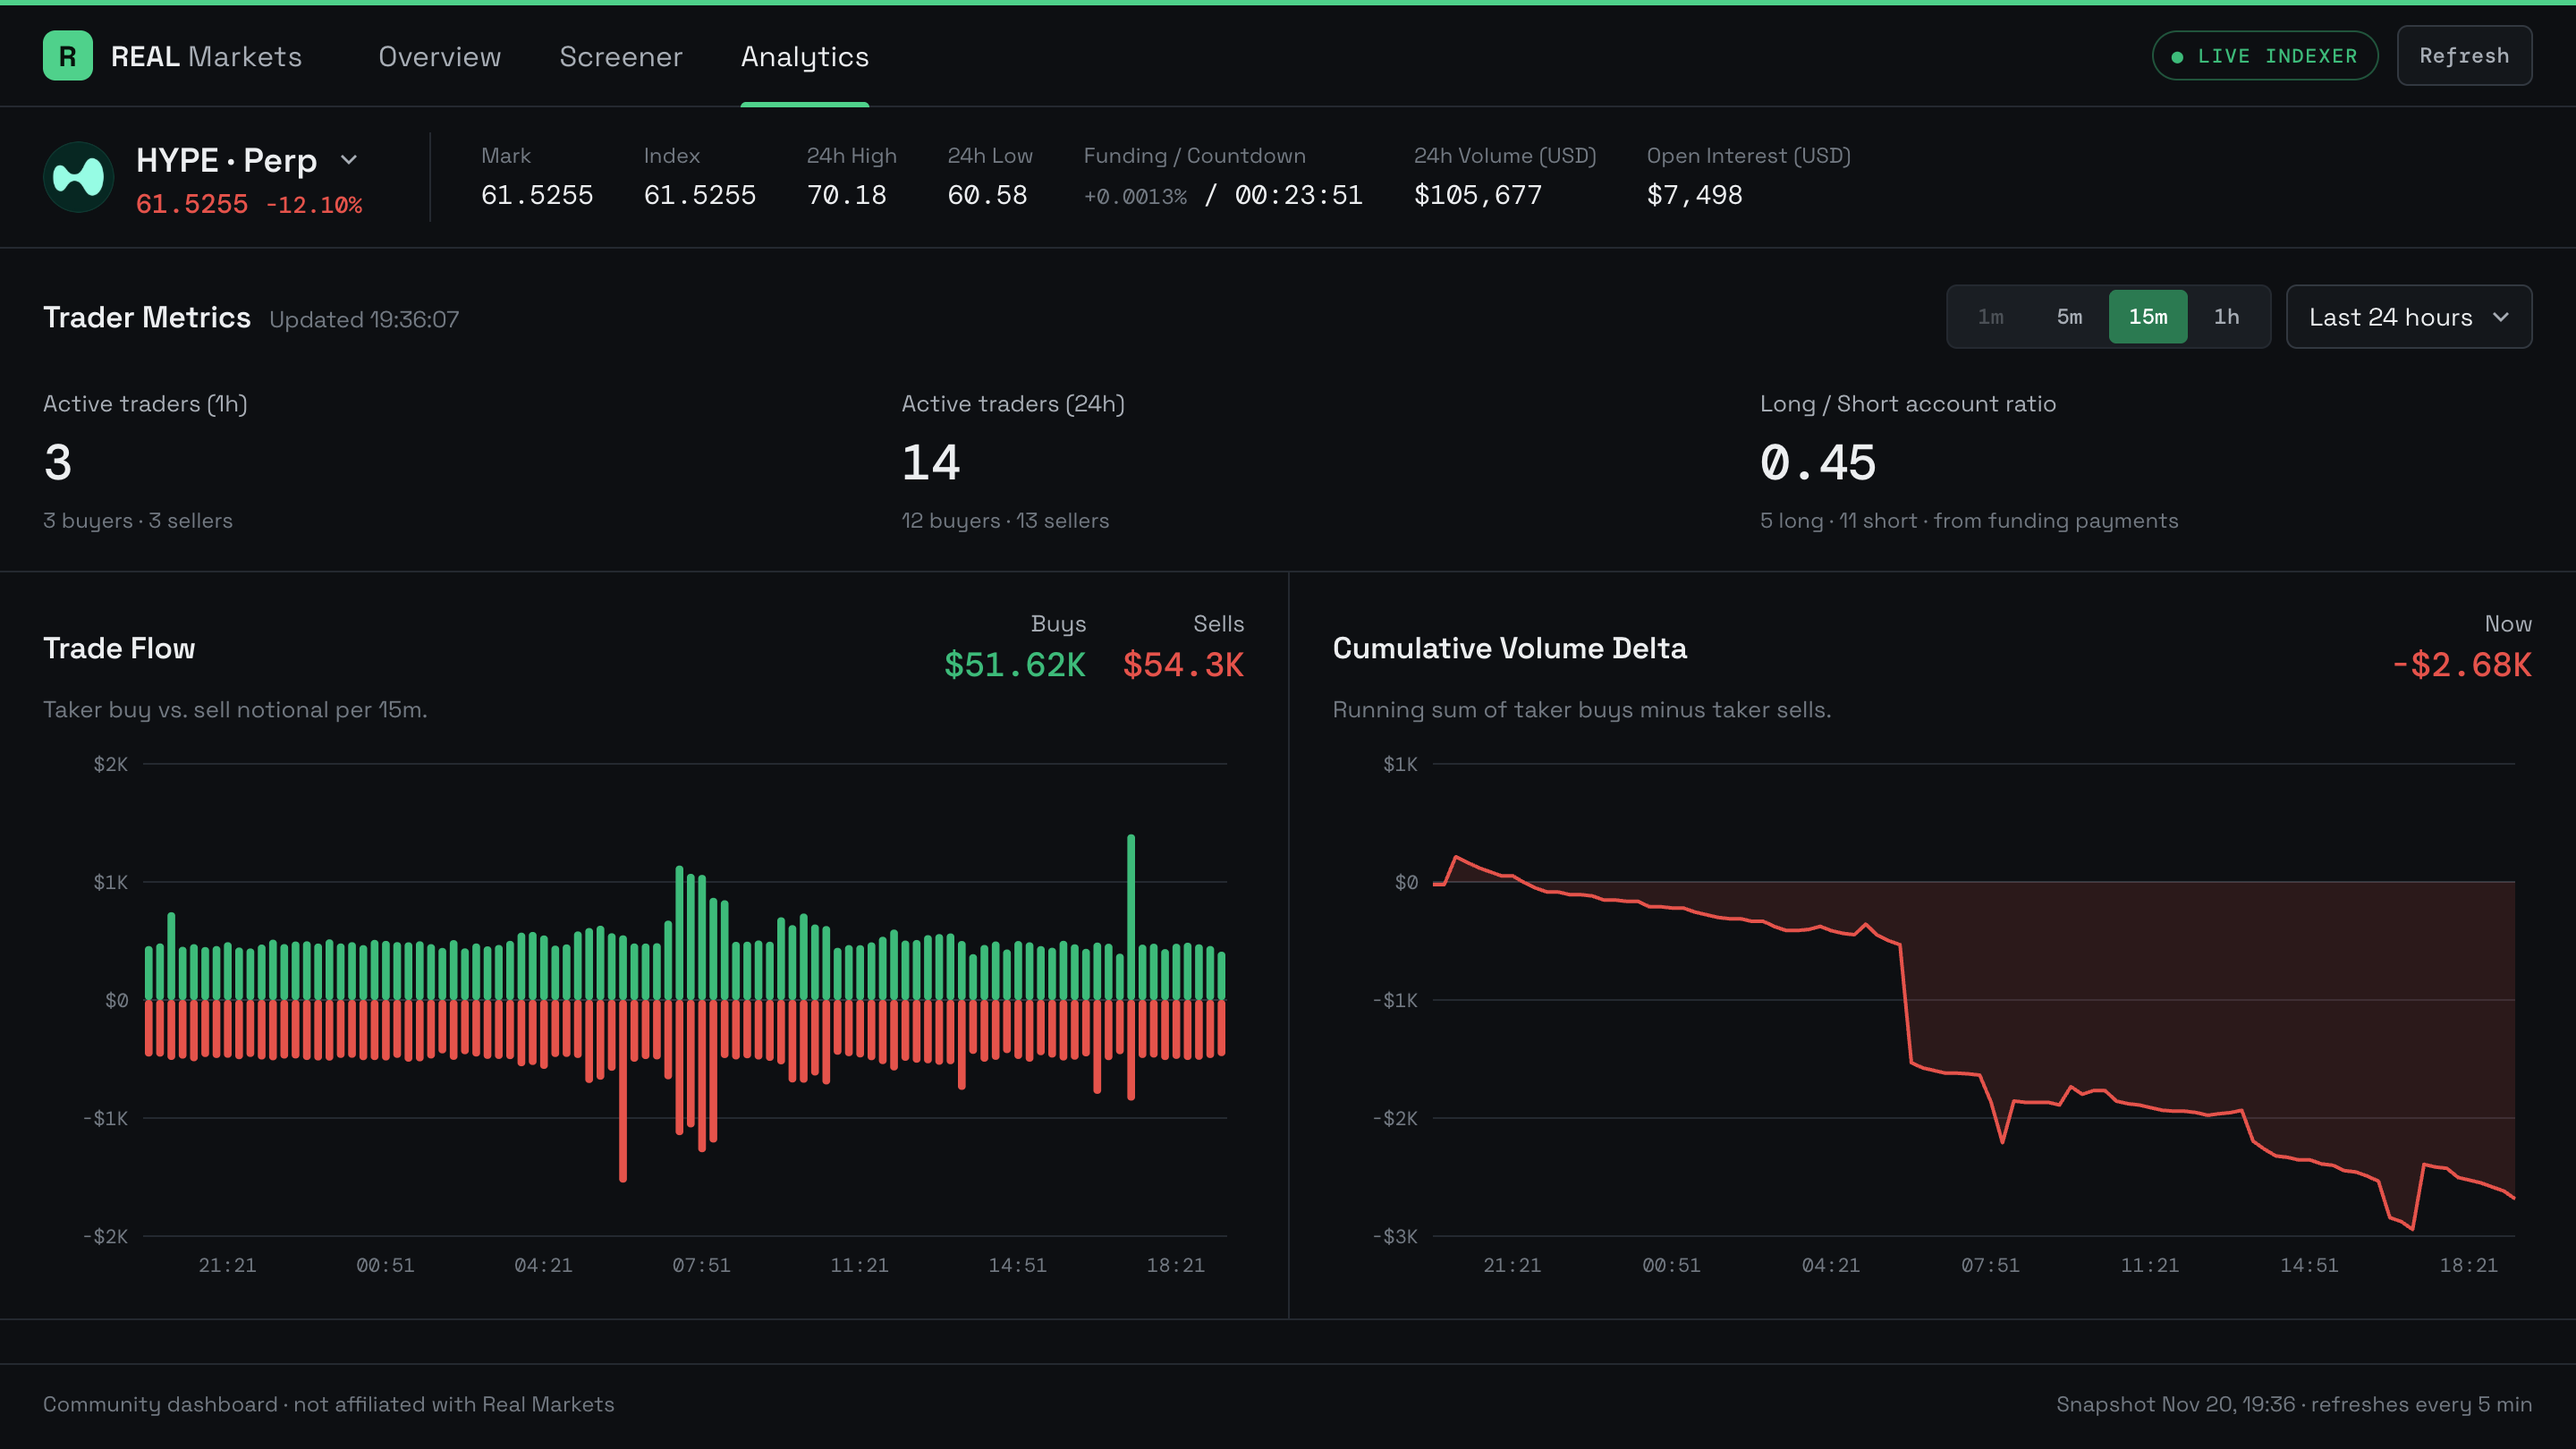
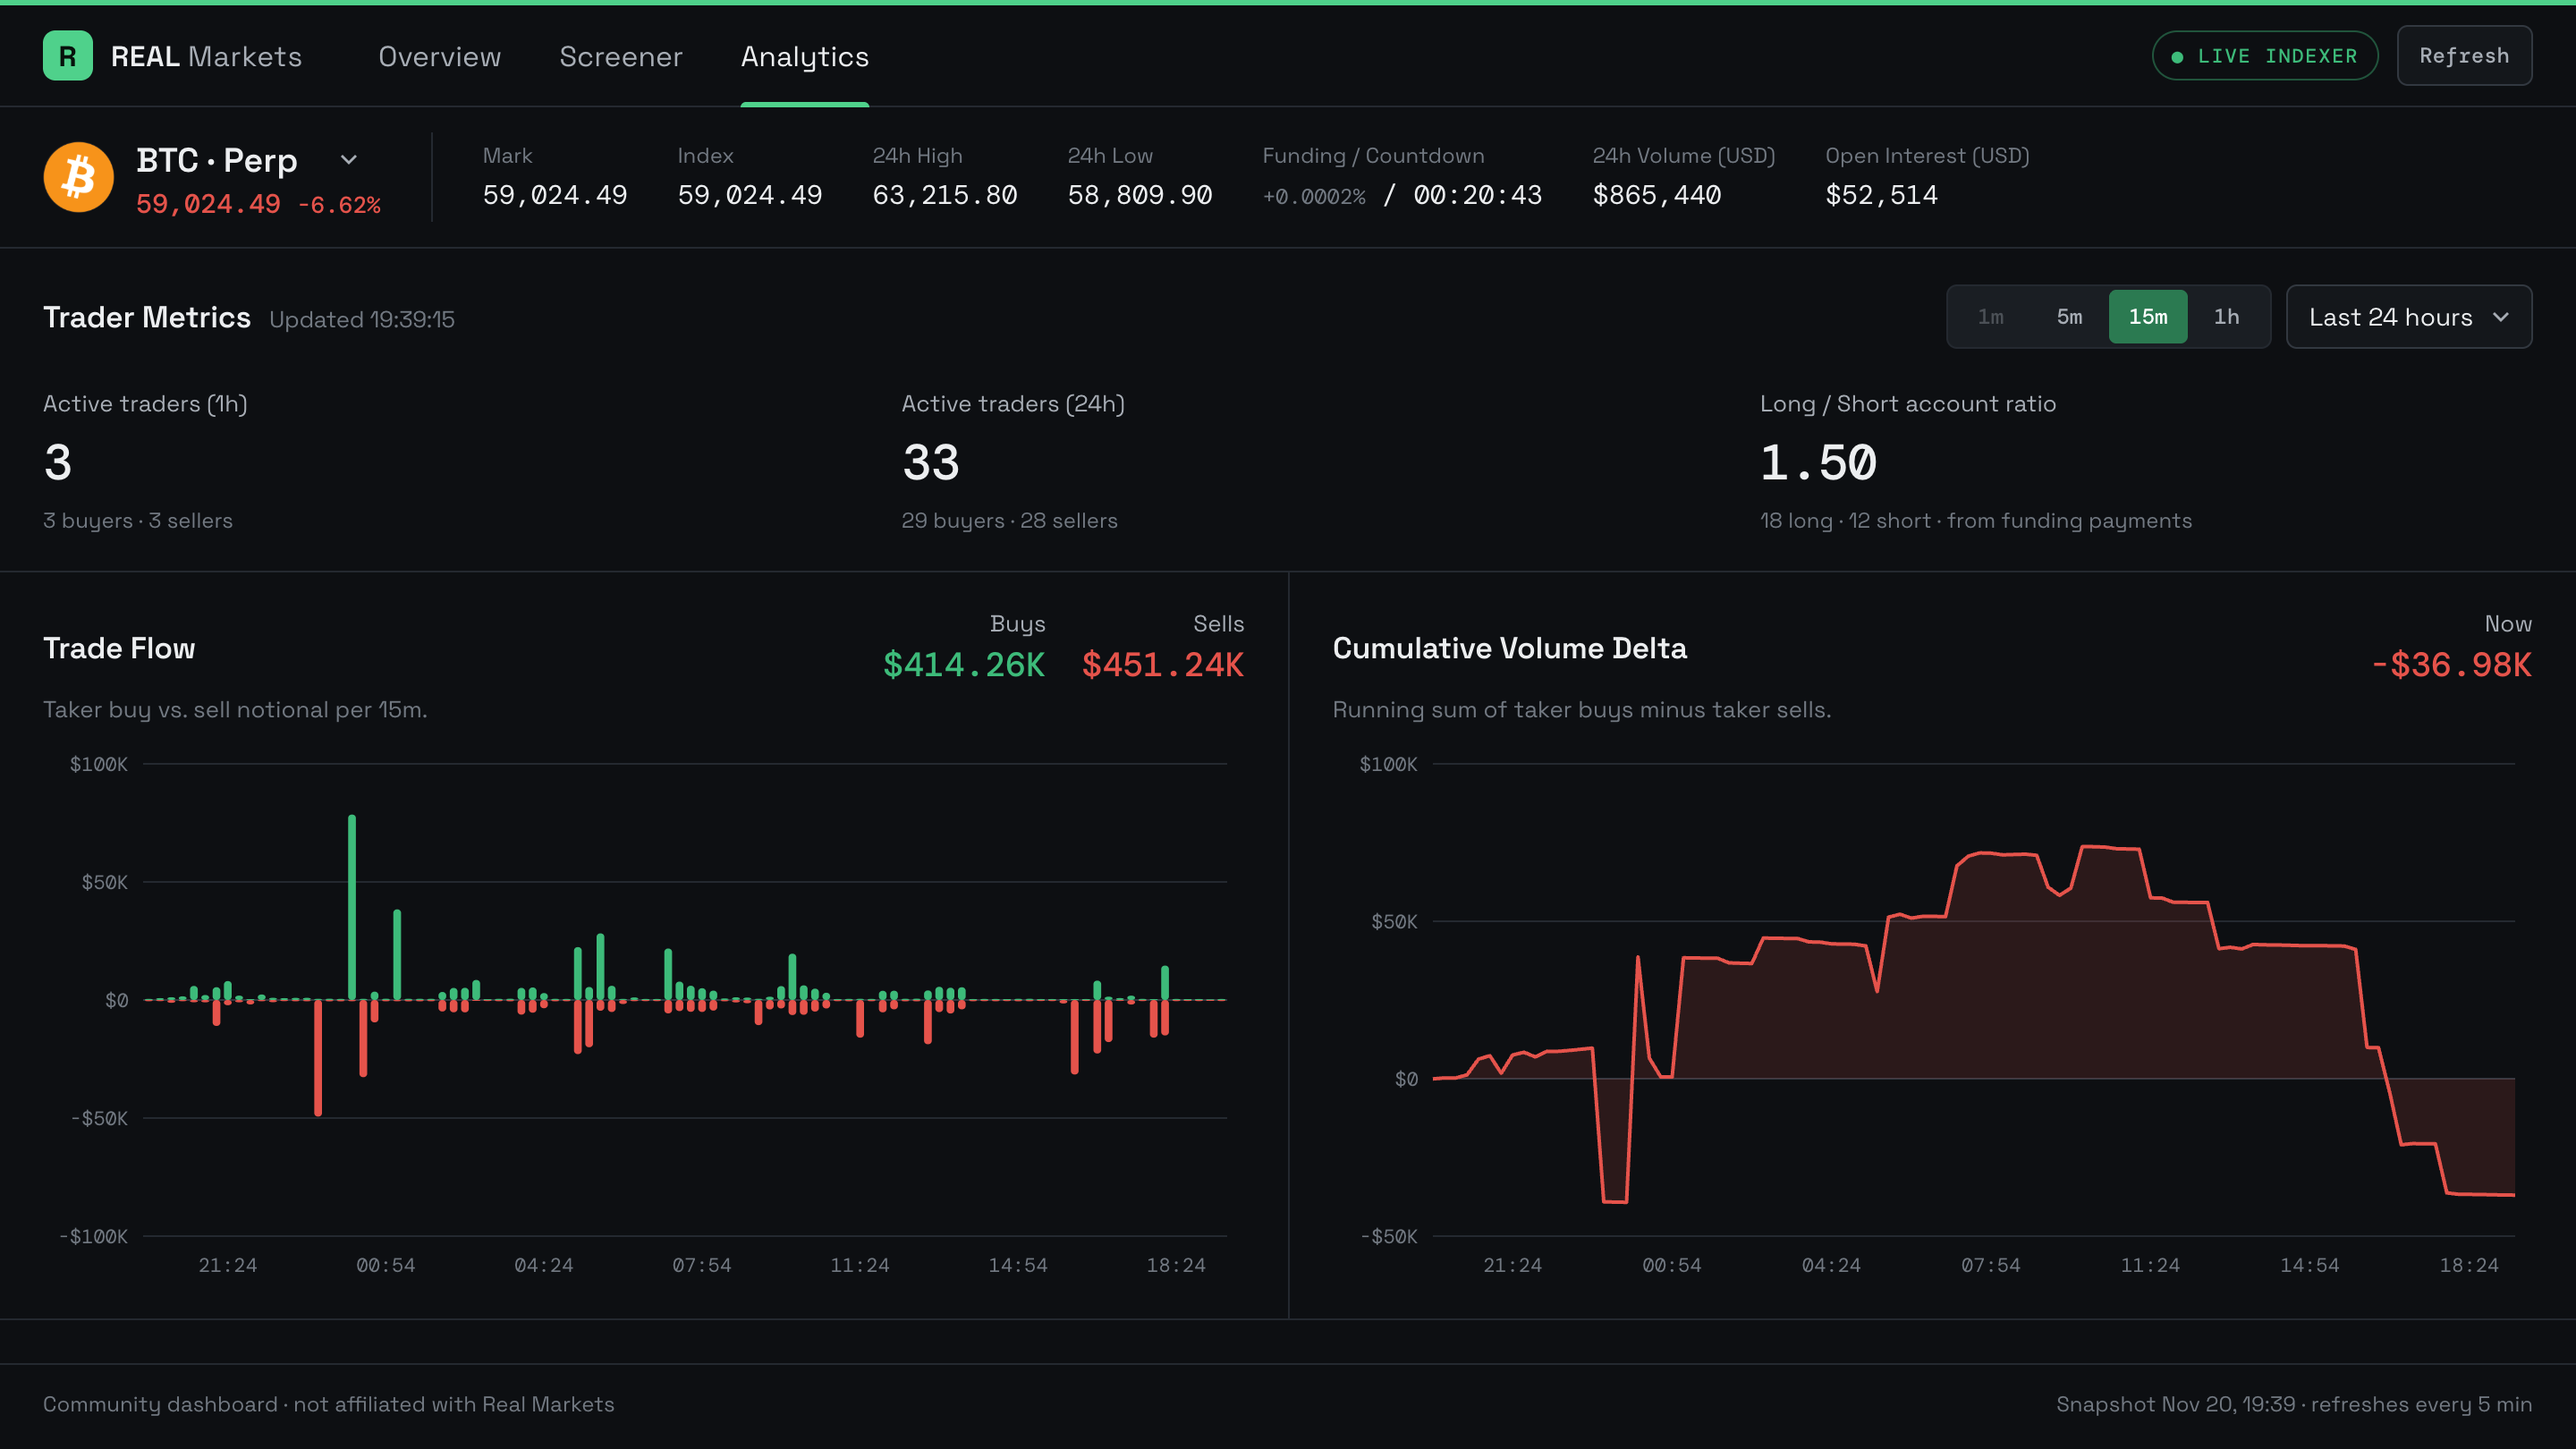
docs: refresh README screenshots

diff --git a/README.md b/README.md
@@ -48,7 +48,7 @@ Every market, ranked by **volume surge** (last hour versus the hourly average), 
 
 ### Analytics
 
-<img src="docs/screenshots/analytics.png" alt="Analytics view for HYPE" width="100%">
+<img src="docs/screenshots/analytics.png" alt="Analytics view for BTC" width="100%">
 
 | Section | What it shows |
 | --- | --- |
